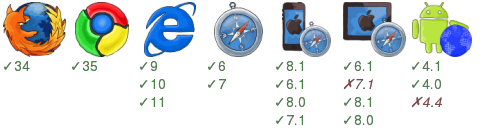
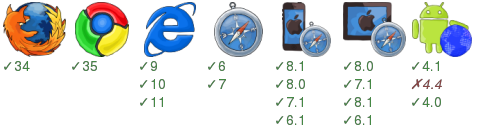
Auto push new examples from zordius/fluxex@61b04ee0f90cced70e6e71dc693474a9fc519644

diff --git a/00hello/badge.html b/00hello/badge.html
@@ -29,19 +29,19 @@ div{vertical-align:top;overflow:hidden;display:inline-block;width:92px;padding:4
 </div><div>
 <img src="/home/travis/build/zordius/fluxex/examples/00hello/node_modules/badge-render/browser-badge/static/iphone.png" />
 <p>&#x2713;8.1</p>
-<p>&#x2713;6.1</p>
 <p>&#x2713;8.0</p>
 <p>&#x2713;7.1</p>
+<p>&#x2713;6.1</p>
 </div><div>
 <img src="/home/travis/build/zordius/fluxex/examples/00hello/node_modules/badge-render/browser-badge/static/ipad.png" />
-<p>&#x2713;6.1</p>
-<i>&#x2717;7.1</i>
-<p>&#x2713;8.1</p>
 <p>&#x2713;8.0</p>
+<p>&#x2713;7.1</p>
+<p>&#x2713;8.1</p>
+<p>&#x2713;6.1</p>
 </div><div>
 <img src="/home/travis/build/zordius/fluxex/examples/00hello/node_modules/badge-render/browser-badge/static/android-browser.png" />
 <p>&#x2713;4.1</p>
-<p>&#x2713;4.0</p>
 <i>&#x2717;4.4</i>
+<p>&#x2713;4.0</p>
 </div></body>
 </html>
